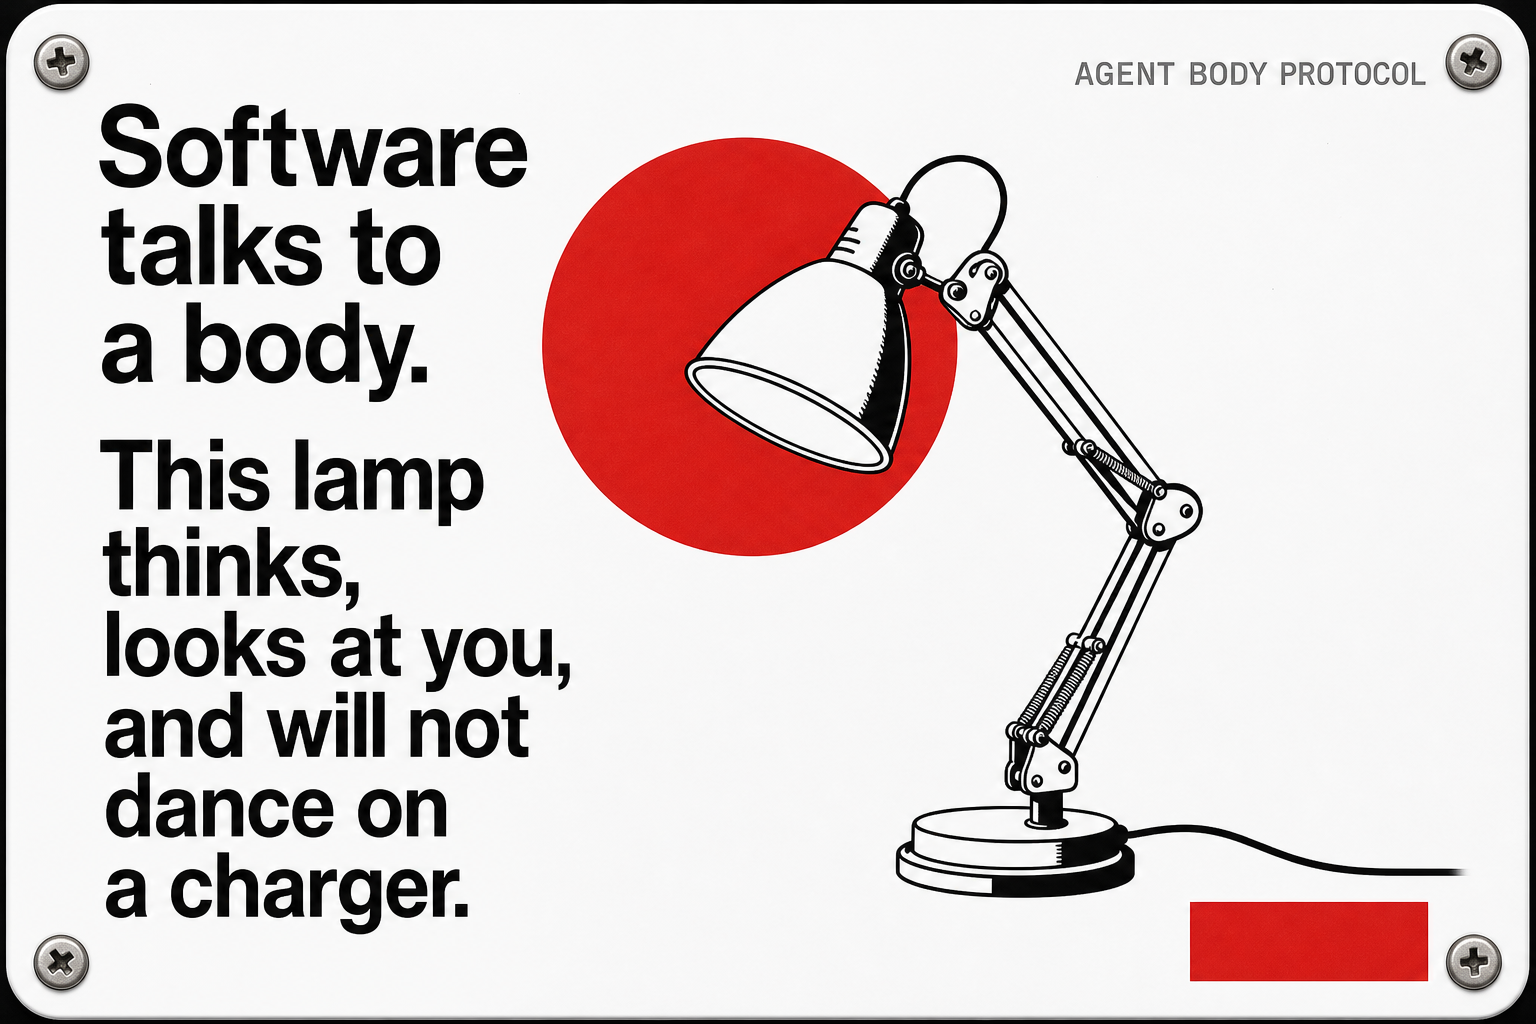
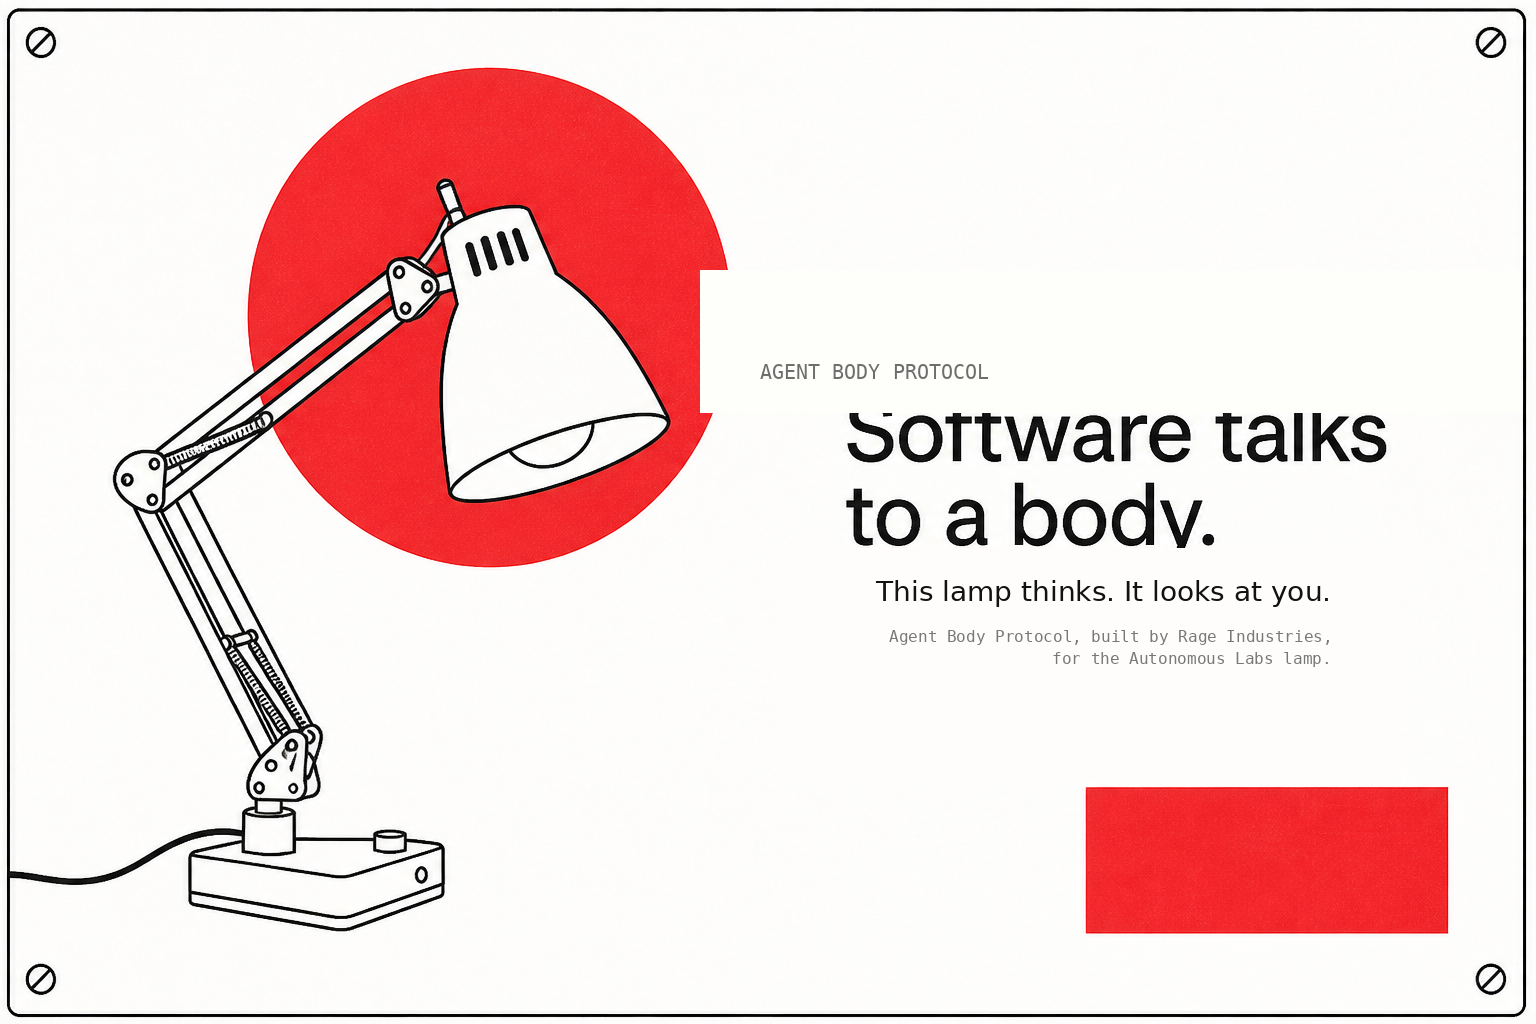
Hero A: thinks and looks at you. Hop stays on hatch.

diff --git a/README.md b/README.md
@@ -1,6 +1,6 @@
 # Agent Body Protocol
 
-Software talks to a body. This lamp thinks. It looks at you, then it hops.
+Software talks to a body. This lamp thinks. It looks at you.
 
 Agent Body Protocol, built by Rage Industries, for the Autonomous Labs lamp.
 
